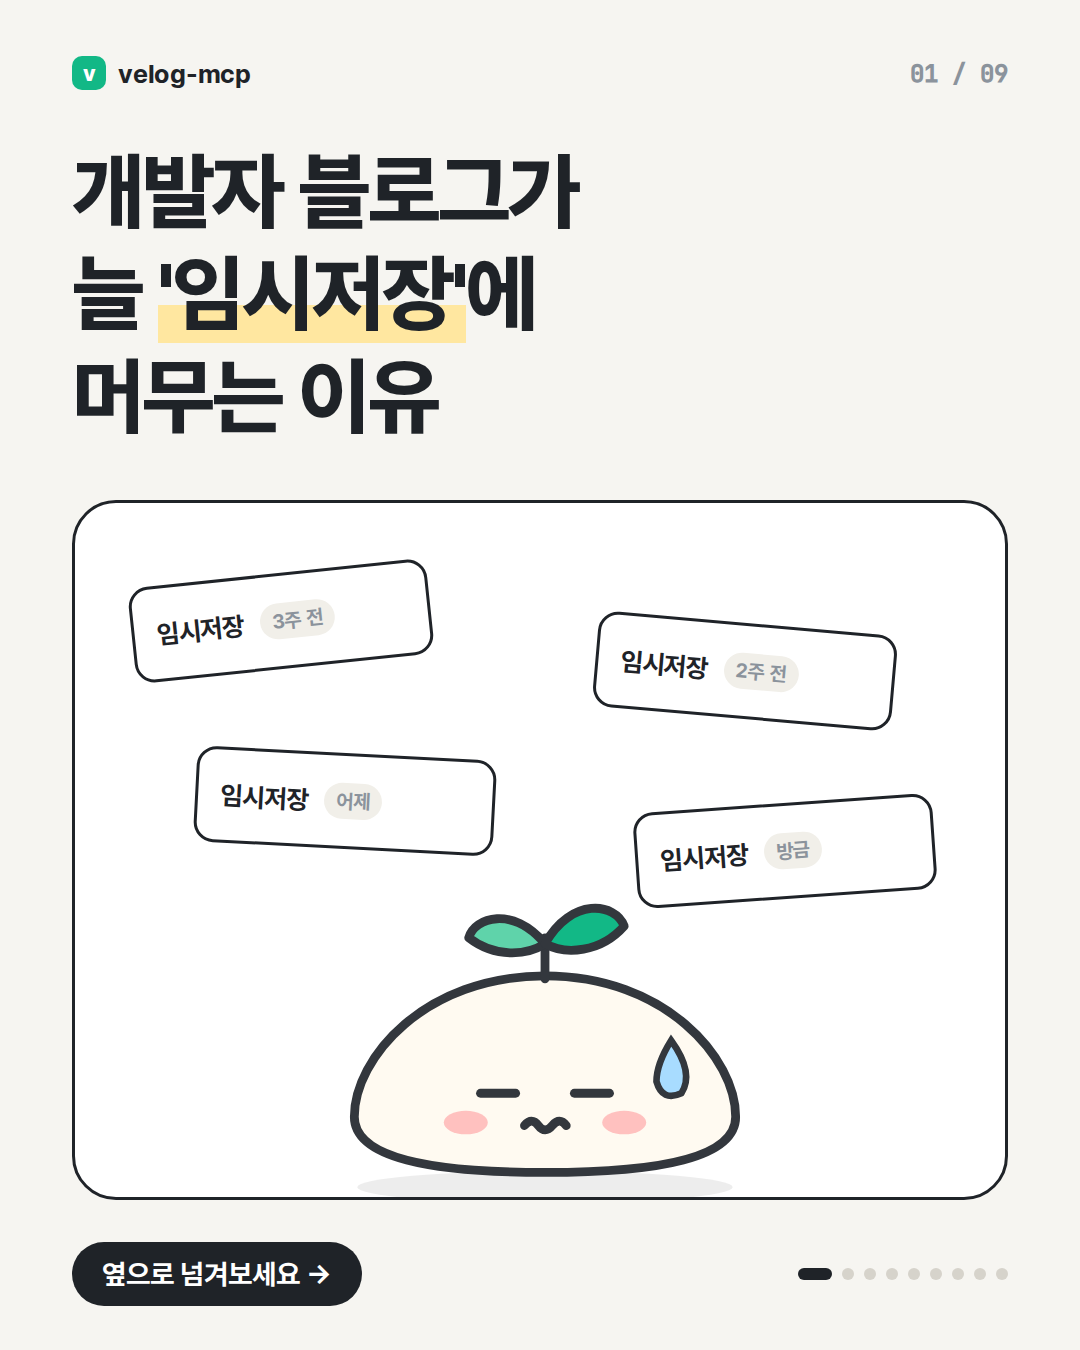
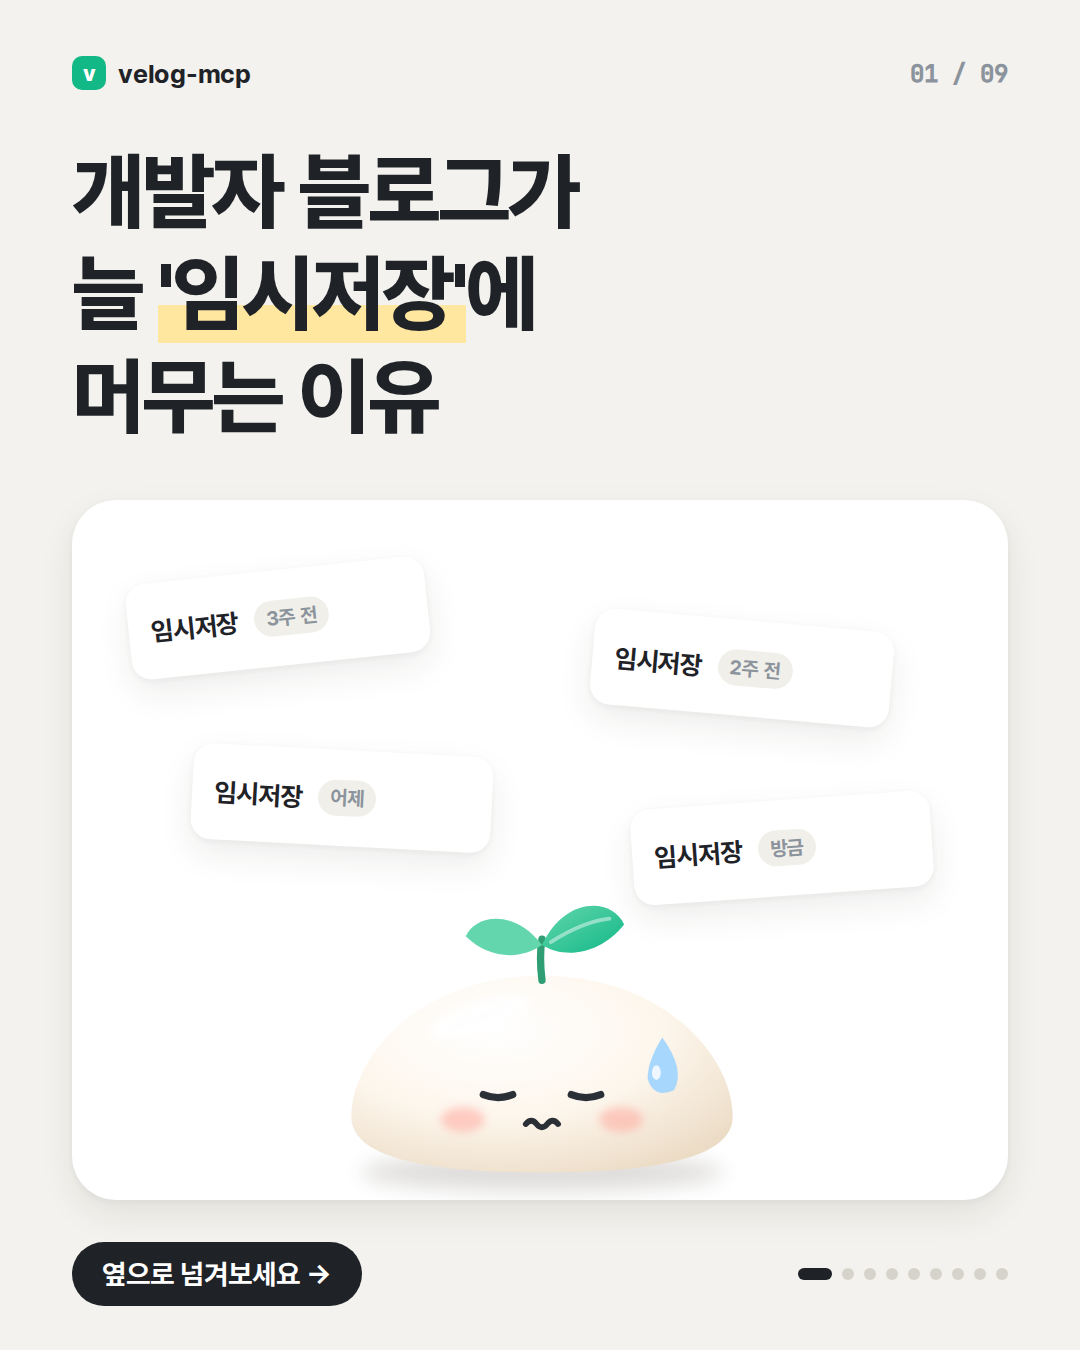
docs: 컷툰을 외곽선 없는 소프트 클레이 톤으로 다듬기
검은 외곽선을 걷어내고 그라데이션·그림자로 입체감을 냈다.
동료 캐릭터는 고양이 대신 민트 안경 찹쌀떡 선배로 바꿨다.

Claude-Session: https://claude.ai/code/session_01X3fBmSzLXyZafpiytT9wRn

diff --git a/docs/promo/cuttoon/toon.html b/docs/promo/cuttoon/toon.html
@@ -9,7 +9,7 @@
 @font-face{font-family:P;src:url(../Pretendard-Bold.woff2);font-weight:700}
 @font-face{font-family:P;src:url(../Pretendard-ExtraBold.woff2);font-weight:800}
 @font-face{font-family:M;src:url(../JBMono.woff2);font-weight:500}
-:root{--bg:#f6f5f1;--ink:#1f2328;--g:#12b886;--g2:#0ca678;--mint:#e3f6ef;--gray:#8b939c;--line:#e4e2dc;--card:#fff;--sun:#ffe7a0}
+:root{--bg:#f3f2ee;--ink:#1f2328;--g:#12b886;--g2:#0ca678;--mint:#e3f6ef;--gray:#8b939c;--line:#e4e2dc;--card:#fff;--sun:#ffe7a0}
 *{box-sizing:border-box;margin:0;padding:0}
 body{background:#ccc;font-family:P,sans-serif;color:var(--ink)}
 .p{position:relative;width:1080px;height:1350px;background:var(--bg);overflow:hidden}
@@ -22,32 +22,32 @@ body{background:#ccc;font-family:P,sans-serif;color:var(--ink)}
 .h{font-size:62px;font-weight:800;letter-spacing:-2px;line-height:1.22}
 .h em{font-style:normal;color:var(--g)}
 .h u{text-decoration:none;background:linear-gradient(transparent 62%,var(--sun) 62%)}
-.stage{position:absolute;left:72px;right:72px;top:420px;height:800px;background:var(--card);border-radius:44px;border:3px solid var(--ink);overflow:hidden}
+.stage{position:absolute;left:72px;right:72px;top:420px;height:800px;background:var(--card);border-radius:44px;box-shadow:0 14px 34px rgba(40,36,30,.08),0 2px 6px rgba(40,36,30,.05);overflow:hidden}
 .foot{position:absolute;bottom:58px;left:72px;right:72px;display:flex;align-items:center;justify-content:space-between;font-size:26px;color:var(--gray);font-weight:600}
 .dots{display:flex;gap:10px}.dots b{width:12px;height:12px;border-radius:50%;background:#d6d3cb}.dots b.on{background:var(--ink);width:34px;border-radius:6px}
 svg.ch{position:absolute}
-.bub{position:absolute;background:#fff;border:3px solid var(--ink);border-radius:30px;padding:22px 30px;font-size:36px;font-weight:700;line-height:1.35;letter-spacing:-.5px;white-space:nowrap}
-.bub::after{content:"";position:absolute;width:26px;height:26px;background:#fff;border-right:3px solid var(--ink);border-bottom:3px solid var(--ink)}
+.bub{position:absolute;background:#fff;box-shadow:0 10px 28px rgba(40,36,30,.10),0 1px 3px rgba(40,36,30,.06);border-radius:30px;padding:22px 30px;font-size:36px;font-weight:700;line-height:1.35;letter-spacing:-.5px;white-space:nowrap}
+.bub::after{content:"";position:absolute;width:26px;height:26px;background:#fff;border-radius:0 0 6px 0}
 .bub.tl::after{left:58px;bottom:-16px;transform:rotate(45deg)}
 .bub.tr2::after{right:58px;bottom:-16px;transform:rotate(45deg)}
 .bub.g{background:var(--g);color:#fff}.bub.g::after{background:var(--g)}
 .sfx{position:absolute;font-weight:800;color:var(--g);font-size:34px}
 /* editor */
-.ed{position:absolute;left:300px;top:70px;width:560px;height:330px;border:3px solid var(--ink);border-radius:24px;background:#fbfbf9;padding:34px 36px}
+.ed{position:absolute;left:300px;top:70px;width:560px;height:330px;border-radius:24px;background:#f7f6f2;padding:34px 36px}
 .ed .t{font-size:40px;font-weight:800;color:#c4c1b8}
 .ed .cur{display:inline-block;width:4px;height:44px;background:var(--g);vertical-align:-8px;margin-left:2px}
 .ed .ln{height:16px;border-radius:8px;background:#eeece6;margin-top:22px}
 /* drafts */
-.dr{position:absolute;width:300px;height:96px;background:#fff;border:3px solid var(--ink);border-radius:20px;display:flex;align-items:center;gap:16px;padding:0 22px;font-size:26px;font-weight:700}
+.dr{position:absolute;width:300px;height:96px;background:#fff;box-shadow:0 14px 34px rgba(40,36,30,.08),0 2px 6px rgba(40,36,30,.05);border-radius:20px;display:flex;align-items:center;gap:16px;padding:0 22px;font-size:26px;font-weight:700}
 .dr span{display:inline-flex;height:36px;padding:0 12px;border-radius:999px;background:#f1efe9;color:var(--gray);font-size:20px;align-items:center}
 /* phone */
-.ph{position:absolute;left:50%;top:44px;transform:translateX(-50%);width:560px;height:760px;border:3px solid var(--ink);border-radius:56px;background:#fbfbf9;padding:40px 30px;display:flex;flex-direction:column;gap:22px}
+.ph{position:absolute;left:50%;top:44px;transform:translateX(-50%);width:560px;height:760px;border:10px solid #f0efea;border-radius:60px;background:#fff;box-shadow:0 14px 34px rgba(40,36,30,.08),0 2px 6px rgba(40,36,30,.05);padding:40px 30px;display:flex;flex-direction:column;gap:22px}
 .ph .hd{display:flex;align-items:center;gap:12px;font-size:24px;font-weight:700;color:var(--gray);padding:0 8px 18px;border-bottom:2px solid var(--line)}
 .ph .hd i{width:30px;height:30px;border-radius:50%;background:var(--g)}
 .me{align-self:flex-end;background:var(--g);color:#fff;font-size:30px;font-weight:700;padding:20px 26px;border-radius:28px 28px 8px 28px;line-height:1.35;max-width:420px}
 .chip{align-self:flex-start;display:flex;align-items:center;gap:12px;font-family:M,monospace;font-size:24px;color:var(--g2);background:var(--mint);padding:12px 18px;border-radius:14px}
 .ok{width:30px;height:30px;border-radius:50%;background:var(--g);display:flex;align-items:center;justify-content:center}
-.dc{align-self:flex-start;width:440px;border:3px solid var(--ink);border-radius:24px;background:#fff;padding:24px 26px}
+.dc{align-self:flex-start;width:440px;border-radius:24px;background:#f7f6f2;padding:24px 26px}
 .dc h4{font-size:28px;font-weight:800;line-height:1.3}
 .dc .pills{display:flex;gap:8px;margin:14px 0 4px}
 .dc .pills span{height:36px;display:inline-flex;align-items:center;padding:0 14px;border-radius:999px;background:var(--mint);color:var(--g2);font-size:20px;font-weight:700}
@@ -55,11 +55,11 @@ svg.ch{position:absolute}
 .ai{align-self:flex-start;font-size:28px;line-height:1.45;font-weight:600}
 /* lock list */
 .ll{position:absolute;left:54px;right:54px;bottom:54px;display:flex;flex-direction:column;gap:16px}
-.li{display:flex;align-items:center;gap:22px;background:#fbfbf9;border:3px solid var(--ink);border-radius:24px;padding:22px 28px;font-size:30px;font-weight:700}
+.li{display:flex;align-items:center;gap:22px;background:#f7f6f2;border-radius:24px;padding:22px 28px;font-size:30px;font-weight:700}
 .li small{display:block;font-size:22px;color:var(--gray);font-weight:600;margin-top:4px}
 .ico{flex:none;width:64px;height:64px;border-radius:18px;background:var(--mint);display:flex;align-items:center;justify-content:center}
 /* stats */
-.bars{position:absolute;left:54px;right:54px;top:54px;border:3px solid var(--ink);border-radius:28px;padding:30px 32px;background:#fbfbf9}
+.bars{position:absolute;left:54px;right:54px;top:54px;border-radius:28px;padding:30px 32px;background:#f7f6f2}
 .bars h5{font-size:26px;font-weight:800;margin-bottom:18px;display:flex;justify-content:space-between}
 .bars h5 span{font-family:M,monospace;color:var(--g2);font-size:22px;font-weight:500}
 .br{display:flex;align-items:center;gap:16px;margin-top:14px;font-size:22px;font-weight:600}
@@ -84,67 +84,73 @@ svg.ch{position:absolute}
 <body>
 <div id="root"></div>
 <script>
-// ── character: 새싹 찹쌀떡 & 고양이 선배 ───────────────
-// viewBox 300×300. 몸 중심 x=150, 바닥 y≈262
-const INK="#33373d",G="#12b886",G2="#5fd3aa";
+// ── character: 새싹 찹쌀떡 (soft clay) ─────────────────
+// viewBox 300×300, 외곽선 없이 그라데이션·그림자만으로 입체감
+const INK="#2b2f36",G="#12b886",G2="#63d6ad";
+let _id=0;
 function blob(o){
-  const cat=o.kind==="cat", melt=!!o.melt;
-  const fill=cat?"#e7e4df":"#fffaf1";
-  const top=melt?132:70, ey=melt?212:178;           // 녹으면 납작해지고 눈도 내려온다
+  const k=++_id, sen=o.kind==="senior", melt=!!o.melt;
+  const pal=sen?["#f6fdf9","#e2f6ec","#bfe6d3"]:["#ffffff","#fdf6ec","#ecdcc6"];
+  const top=melt?134:72, ey=melt?214:176;
   const body=melt
-    ? `M150 ${top} C 232 ${top} 280 188 280 228 C 280 256 228 266 150 266 C 72 266 20 256 20 228 C 20 188 68 ${top} 150 ${top} Z`
-    : `M150 ${top} C 226 ${top} 262 140 262 204 C 262 248 214 264 150 264 C 86 264 38 248 38 204 C 38 140 74 ${top} 150 ${top} Z`;
-  const S=`stroke="${INK}" stroke-width="6" stroke-linejoin="round" stroke-linecap="round"`;
-  let g=`<ellipse cx="150" cy="276" rx="${melt?128:98}" ry="11" fill="#000" opacity=".07"/>`;
-  if(!melt) g+=`<ellipse cx="112" cy="262" rx="22" ry="11" fill="${fill}" ${S}/><ellipse cx="188" cy="262" rx="22" ry="11" fill="${fill}" ${S}/>`;
-  if(cat) g+=`<path d="M78 112 L70 52 L124 82 Z" fill="${fill}" ${S}/><path d="M222 112 L230 52 L176 82 Z" fill="${fill}" ${S}/><path d="M82 96 L79 70 L104 84 Z" fill="#f6b8b8"/><path d="M218 96 L221 70 L196 84 Z" fill="#f6b8b8"/>`;
-  g+=`<path d="${body}" fill="${fill}" ${S}/>`;
-  if(!cat){ // 새싹
-    const sy=top+2;
-    g+=`<path d="M150 ${sy} L150 ${sy-28}" ${S} fill="none"/>
-        <path d="M150 ${sy-24} C 128 ${sy-50} 102 ${sy-42} 98 ${sy-28} C 116 ${sy-14} 138 ${sy-16} 150 ${sy-24} Z" fill="${G2}" ${S}/>
-        <path d="M150 ${sy-24} C 168 ${sy-56} 198 ${sy-52} 204 ${sy-36} C 188 ${sy-18} 164 ${sy-16} 150 ${sy-24} Z" fill="${G}" ${S}/>`;
-  } else { // 고양이 수염 + 줄무늬
-    g+=`<path d="M138 ${top+8} L138 ${top+30} M150 ${top+4} L150 ${top+32} M162 ${top+8} L162 ${top+30}" stroke="#c9c4bc" stroke-width="6" stroke-linecap="round"/>
-        <path d="M52 ${ey+22} L82 ${ey+18} M54 ${ey+36} L82 ${ey+30} M248 ${ey+22} L218 ${ey+18} M246 ${ey+36} L218 ${ey+30}" stroke="${INK}" stroke-width="4" stroke-linecap="round"/>`;
+    ? `M150 ${top} C 232 ${top} 280 188 280 230 C 280 258 228 268 150 268 C 72 268 20 258 20 230 C 20 188 68 ${top} 150 ${top} Z`
+    : `M150 ${top} C 224 ${top} 260 138 260 202 C 260 248 214 266 150 266 C 86 266 40 248 40 202 C 40 138 76 ${top} 150 ${top} Z`;
+  const defs=`<defs>
+    <radialGradient id="b${k}" cx="38%" cy="28%" r="80%"><stop offset="0" stop-color="${pal[0]}"/><stop offset=".55" stop-color="${pal[1]}"/><stop offset="1" stop-color="${pal[2]}"/></radialGradient>
+    <linearGradient id="l${k}" x1="0" y1="0" x2="1" y2="1"><stop offset="0" stop-color="${G2}"/><stop offset="1" stop-color="${G}"/></linearGradient>
+    <linearGradient id="lp${k}" x1="0" y1="0" x2="0" y2="1"><stop offset="0" stop-color="#f6f7f9"/><stop offset="1" stop-color="#d9dde3"/></linearGradient>
+    <filter id="s${k}" x="-50%" y="-50%" width="200%" height="200%"><feGaussianBlur stdDeviation="7"/></filter>
+    <filter id="f${k}" x="-50%" y="-50%" width="200%" height="200%"><feGaussianBlur stdDeviation="3"/></filter>
+  </defs>`;
+  let g=`<ellipse cx="150" cy="${melt?268:266}" rx="${melt?124:96}" ry="13" fill="#3b3226" opacity=".16" filter="url(#s${k})"/>`;
+  g+=`<path d="${body}" fill="url(#b${k})"/>`;
+  g+=`<ellipse cx="${melt?110:116}" cy="${top+(melt?26:34)}" rx="${melt?36:26}" ry="${melt?10:14}" fill="#fff" opacity=".9" filter="url(#f${k})" transform="rotate(-18 116 ${top+34})"/>`;
+  // 새싹
+  const sy=top+3;
+  g+=`<path d="M150 ${sy} Q148 ${sy-16} 150 ${sy-28}" stroke="#2f9e74" stroke-width="5" fill="none" stroke-linecap="round"/>`;
+  if(sen){
+    g+=`<path d="M150 ${sy-26} C 160 ${sy-62} 200 ${sy-66} 210 ${sy-48} C 196 ${sy-24} 168 ${sy-18} 150 ${sy-26} Z" fill="url(#l${k})"/>
+        <path d="M156 ${sy-28} Q180 ${sy-44} 200 ${sy-50}" stroke="#fff" stroke-opacity=".5" stroke-width="2.5" fill="none" stroke-linecap="round"/>`;
+  } else {
+    g+=`<path d="M150 ${sy-24} C 130 ${sy-50} 104 ${sy-44} 98 ${sy-30} C 114 ${sy-14} 136 ${sy-14} 150 ${sy-24} Z" fill="${G2}"/>
+        <path d="M150 ${sy-24} C 166 ${sy-58} 198 ${sy-56} 206 ${sy-38} C 190 ${sy-18} 166 ${sy-14} 150 ${sy-24} Z" fill="url(#l${k})"/>
+        <path d="M156 ${sy-26} Q178 ${sy-40} 196 ${sy-42}" stroke="#fff" stroke-opacity=".45" stroke-width="2.5" fill="none" stroke-linecap="round"/>`;
   }
-  // arms
-  if(!o.laptop && !melt){
-    const up=o.arms==="up";
-    g+= up ? `<ellipse cx="34" cy="150" rx="15" ry="22" transform="rotate(-30 34 150)" fill="${fill}" ${S}/><ellipse cx="266" cy="150" rx="15" ry="22" transform="rotate(30 266 150)" fill="${fill}" ${S}/>`
-           : `<ellipse cx="44" cy="214" rx="14" ry="20" transform="rotate(25 44 214)" fill="${fill}" ${S}/><ellipse cx="256" cy="214" rx="14" ry="20" transform="rotate(-25 256 214)" fill="${fill}" ${S}/>`;
-  }
-  // face
-  const L=118,R=182, e=o.eye||"dot";
+  // 팔
+  const arm=(cx,cy,r)=>`<ellipse cx="${cx}" cy="${cy}" rx="15" ry="21" transform="rotate(${r} ${cx} ${cy})" fill="url(#b${k})"/><ellipse cx="${cx}" cy="${cy}" rx="15" ry="21" transform="rotate(${r} ${cx} ${cy})" fill="none" stroke="${pal[2]}" stroke-width="2" opacity=".8"/>`;
+  if(!o.laptop && !melt && !o.mug) g+= o.arms==="up" ? arm(38,146,-28)+arm(262,146,28) : arm(48,214,24)+arm(252,214,-24);
+  // 얼굴
+  const L=120,R=180,e=o.eye||"dot";
   const eye=(x)=>({
-    dot:`<circle cx="${x}" cy="${ey}" r="13" fill="${INK}"/><circle cx="${x-4}" cy="${ey-5}" r="4.5" fill="#fff"/><circle cx="${x+4}" cy="${ey+4}" r="2" fill="#fff"/>`,
-    spark:`<circle cx="${x}" cy="${ey}" r="17" fill="${INK}"/><path d="M${x-5} ${ey-12} l2.5 6 6 2.5 -6 2.5 -2.5 6 -2.5 -6 -6 -2.5 6 -2.5z" fill="#fff"/><circle cx="${x+6}" cy="${ey+6}" r="3" fill="#fff"/>`,
-    happy:`<path d="M${x-12} ${ey+4} Q${x} ${ey-12} ${x+12} ${ey+4}" fill="none" ${S}/>`,
-    small:`<circle cx="${x}" cy="${ey}" r="7" fill="${INK}"/>`,
-    line:`<path d="M${x-12} ${ey} L${x+12} ${ey}" ${S}/>`,
-    shock:`<circle cx="${x}" cy="${ey-2}" r="17" fill="#fff" ${S}/><circle cx="${x}" cy="${ey-2}" r="5" fill="${INK}"/>`,
-    smug:`<path d="M${x-13} ${ey-2} L${x+13} ${ey-2}" ${S}/><path d="M${x-11} ${ey-2} Q${x} ${ey+11} ${x+11} ${ey-2}" fill="${INK}"/>`,
-    up:`<circle cx="${x+3}" cy="${ey-6}" r="12" fill="${INK}"/><circle cx="${x}" cy="${ey-11}" r="4" fill="#fff"/>`,
+    dot:`<ellipse cx="${x}" cy="${ey}" rx="9.5" ry="11.5" fill="${INK}"/><circle cx="${x-3}" cy="${ey-4.5}" r="3.6" fill="#fff"/>`,
+    spark:`<ellipse cx="${x}" cy="${ey}" rx="12.5" ry="14.5" fill="${INK}"/><path d="M${x-4} ${ey-10} l2 4.6 4.6 2 -4.6 2 -2 4.6 -2 -4.6 -4.6 -2 4.6 -2z" fill="#fff"/><circle cx="${x+5}" cy="${ey+6}" r="2.4" fill="#fff"/>`,
+    happy:`<path d="M${x-10} ${ey+3} Q${x} ${ey-9} ${x+10} ${ey+3}" fill="none" stroke="${INK}" stroke-width="5" stroke-linecap="round"/>`,
+    small:`<circle cx="${x}" cy="${ey}" r="6" fill="${INK}"/>`,
+    line:`<path d="M${x-10} ${ey+1} Q${x} ${ey+5} ${x+10} ${ey+1}" fill="none" stroke="${INK}" stroke-width="5" stroke-linecap="round"/>`,
+    shock:`<ellipse cx="${x}" cy="${ey-2}" rx="11" ry="13" fill="${INK}"/><circle cx="${x-3}" cy="${ey-7}" r="4" fill="#fff"/><circle cx="${x+3.5}" cy="${ey+3}" r="1.8" fill="#fff"/>`,
+    calm:`<path d="M${x-10} ${ey} Q${x} ${ey+8} ${x+10} ${ey}" fill="none" stroke="${INK}" stroke-width="5" stroke-linecap="round"/>`,
+    up:`<ellipse cx="${x+2}" cy="${ey-5}" rx="9" ry="11" fill="${INK}"/><circle cx="${x-1}" cy="${ey-10}" r="3.4" fill="#fff"/>`,
   })[e];
-  const my=ey+20;
+  const my=ey+19;
   const mouth={
-    smile:`<path d="M141 ${my} Q150 ${my+9} 159 ${my}" fill="none" ${S}/>`,
-    cat:`<path d="M138 ${my} Q144 ${my+8} 150 ${my} Q156 ${my+8} 162 ${my}" fill="none" ${S}/>`,
-    open:`<path d="M138 ${my-2} Q150 ${my+22} 162 ${my-2} Z" fill="${INK}" ${S}/><path d="M144 ${my+9} Q150 ${my+14} 156 ${my+9}" fill="#ff8f8f"/>`,
-    flat:`<path d="M142 ${my+2} L158 ${my+2}" ${S}/>`,
-    wave:`<path d="M136 ${my+2} q5 -6 9.5 0 t9.5 0 t9.5 0" fill="none" ${S}/>`,
-    o:`<ellipse cx="150" cy="${my+4}" rx="8" ry="10" fill="${INK}"/>`,
-    smirk:`<path d="M140 ${my+2} Q154 ${my+8} 164 ${my-6}" fill="none" ${S}/>`,
-  }[o.mouth||(cat?"cat":"smile")];
-  const blush=`<ellipse cx="${L-22}" cy="${ey+20}" rx="15" ry="8" fill="#ffadad" opacity=".75"/><ellipse cx="${R+22}" cy="${ey+20}" rx="15" ry="8" fill="#ffadad" opacity=".75"/>`;
-  g+=blush+eye(L)+eye(R)+mouth;
-  if(o.sweat) g+=`<path d="M236 ${top+44} Q252 ${top+66} 243 ${top+80} Q230 ${top+86} 226 ${top+72} Q226 ${top+60} 236 ${top+44} Z" fill="#a8dcff" stroke="${INK}" stroke-width="4.5"/>`;
-  if(o.laptop) g+=`<g transform="translate(0 26)"><path d="M70 288 L86 206 Q88 198 98 198 L202 198 Q212 198 214 206 L230 288 Z" fill="#eef0f2" ${S}/><circle cx="150" cy="244" r="13" fill="${G}"/>
-    <ellipse cx="80" cy="208" rx="16" ry="13" fill="${fill}" ${S}/><ellipse cx="220" cy="208" rx="16" ry="13" fill="${fill}" ${S}/></g>`;
-  if(o.mug) g+=`<g transform="translate(222 170)"><path d="M0 0 L46 0 L42 52 Q41 60 33 60 L13 60 Q5 60 4 52 Z" fill="#fff" ${S}/><path d="M45 14 Q64 14 62 30 Q60 42 43 42" fill="none" ${S}/><path d="M14 -12 q-6 -10 2 -20 M30 -12 q-6 -10 2 -20" fill="none" stroke="#c9c4bc" stroke-width="4.5" stroke-linecap="round"/></g>
-    <ellipse cx="226" cy="214" rx="15" ry="13" fill="${fill}" ${S}/>`;
+    smile:`<path d="M143 ${my} Q150 ${my+7} 157 ${my}" fill="none" stroke="${INK}" stroke-width="4.5" stroke-linecap="round"/>`,
+    open:`<path d="M140 ${my-2} Q150 ${my+18} 160 ${my-2} Q150 ${my+1} 140 ${my-2} Z" fill="${INK}"/><ellipse cx="150" cy="${my+8}" rx="5" ry="3" fill="#ff9a9a"/>`,
+    flat:`<path d="M144 ${my+2} L156 ${my+2}" stroke="${INK}" stroke-width="4.5" stroke-linecap="round"/>`,
+    wave:`<path d="M139 ${my+2} q3.7 -4.5 7.3 0 t7.3 0 t7.3 0" fill="none" stroke="${INK}" stroke-width="4" stroke-linecap="round"/>`,
+    o:`<ellipse cx="150" cy="${my+4}" rx="6.5" ry="8" fill="${INK}"/>`,
+    cat:`<path d="M140 ${my} Q145 ${my+6} 150 ${my} Q155 ${my+6} 160 ${my}" fill="none" stroke="${INK}" stroke-width="4.5" stroke-linecap="round"/>`,
+  }[o.mouth||"smile"];
+  g+=`<ellipse cx="${L-24}" cy="${ey+18}" rx="15" ry="8.5" fill="#ffa99f" opacity=".55" filter="url(#f${k})"/><ellipse cx="${R+24}" cy="${ey+18}" rx="15" ry="8.5" fill="#ffa99f" opacity=".55" filter="url(#f${k})"/>`;
+  g+=eye(L)+eye(R)+mouth;
+  if(o.glasses) g+=`<g fill="none" stroke="${INK}" stroke-width="3.2" opacity=".85"><circle cx="${L}" cy="${ey}" r="21"/><circle cx="${R}" cy="${ey}" r="21"/><path d="M141 ${ey-2} Q150 ${ey-7} 159 ${ey-2}"/></g>`;
+  if(o.sweat) g+=`<path d="M232 ${top+42} Q248 ${top+64} 240 ${top+78} Q226 ${top+84} 222 ${top+70} Q222 ${top+58} 232 ${top+42} Z" fill="#9fd4ff" opacity=".9"/><ellipse cx="228" cy="${top+66}" rx="3" ry="5" fill="#fff" opacity=".8"/>`;
+  if(o.laptop) g+=`<g transform="translate(0 28)"><ellipse cx="150" cy="282" rx="86" ry="8" fill="#3b3226" opacity=".12" filter="url(#f${k})"/>
+    <path d="M74 284 L88 206 Q90 196 102 196 L198 196 Q210 196 212 206 L226 284 Z" fill="url(#lp${k})"/><circle cx="150" cy="240" r="11" fill="${G}"/>
+    ${arm(84,204,70)}${arm(216,204,-70)}</g>`;
+  if(o.mug) g+=`<g transform="translate(206 176)"><path d="M0 0 L44 0 L40 50 Q39 58 31 58 L13 58 Q5 58 4 50 Z" fill="#fff"/><path d="M0 0 L44 0 L42.5 18 L1.5 18 Z" fill="${G}" opacity=".9"/><path d="M43 14 Q62 14 60 30 Q58 42 41 42" fill="none" stroke="#fff" stroke-width="7" stroke-linecap="round"/>
+    <path d="M14 -10 q-6 -10 2 -20 M30 -10 q-6 -10 2 -20" fill="none" stroke="#c8c3ba" stroke-width="4" stroke-linecap="round"/></g>${arm(210,214,-60)}`;
   const flip=o.flip?`transform="translate(300 0) scale(-1 1)"`:"";
-  return `<svg class="ch" viewBox="0 -20 300 320" style="left:${o.x}px;top:${o.y}px;width:${o.w||300}px;overflow:visible"><g ${flip}>${g}</g></svg>`;
+  return `<svg class="ch" viewBox="0 -20 300 320" style="left:${o.x}px;top:${o.y}px;width:${o.w||300}px;overflow:visible">${defs}<g ${flip}>${g}</g></svg>`;
 }
 const check=`<svg width="18" height="18" viewBox="0 0 24 24"><path d="M5 12.5l4.2 4.2L19 7" fill="none" stroke="#fff" stroke-width="3.4" stroke-linecap="round" stroke-linejoin="round"/></svg>`;
 const icon={
@@ -202,9 +208,9 @@ pages.push(frame(4,`
 // 5 동료
 pages.push(frame(5,`
   <div class="bub tr2 g" style="right:60px;top:80px">아직도 손으로 써?<br>그냥 Claude한테 말해</div>
-  ${blob({x:540,y:380,w:360,kind:"cat",eye:"smug",mouth:"cat",mug:true,flip:true})}
-  ${blob({x:40,y:430,w:330,eye:"shock",mouth:"o",arms:"up"})}
-  <div class="sfx" style="left:60px;top:370px;font-size:56px;color:var(--ink)">!?</div>
+  ${blob({x:580,y:370,w:330,kind:"senior",eye:"calm",mouth:"smile",glasses:true,flip:true})}
+  ${blob({x:60,y:420,w:330,eye:"shock",mouth:"o",arms:"up"})}
+  <div class="sfx" style="left:90px;top:380px;font-size:52px;color:var(--g)">!?</div>
 `,{step:"그때",h:`옆자리 동료가<br>한마디 던졌다`,foot:"velog-mcp = 벨로그용 MCP 서버"}));
 
 // 6 채팅

diff --git a/docs/promo/README.md b/docs/promo/README.md
@@ -57,7 +57,7 @@ ffmpeg -i velog-mcp-ad.mp4 -i narration.wav -map 0:v -map 1:a -c:v copy -c:a aac
 
 `cuttoon/01.png` … `09.png` — 1080×1350(4:5) 캐러셀 9장.
 블로그 미루기 3단계(새벽 버그 → 빈 에디터 → 쌓이는 임시저장) → 동료의 한마디 → 초안 · 안심(비공개 기본) · 통계 → 설치.
-캐릭터는 `toon.html` 안의 SVG 함수 `blob()` — 새싹 찹쌀떡(주인공)과 `kind:"cat"` 고양이 선배. 표정 `eye`/`mouth`, 상태 `melt`(녹아내림)·`sweat`, 소품 `laptop`/`mug`.
+캐릭터는 `toon.html` 안의 SVG 함수 `blob()` — 새싹 찹쌀떡(주인공)과 `kind:"senior"` 민트 안경 선배. 외곽선 없이 그라데이션·그림자로 입체감을 낸다. 표정 `eye`/`mouth`, 상태 `melt`(녹아내림)·`sweat`, 소품 `laptop`/`glasses`.
 
 ```bash
 cd docs/promo && node cuttoon/toon.mjs   # 폰트는 위 '다시 뽑기'와 같은 위치(docs/promo)
